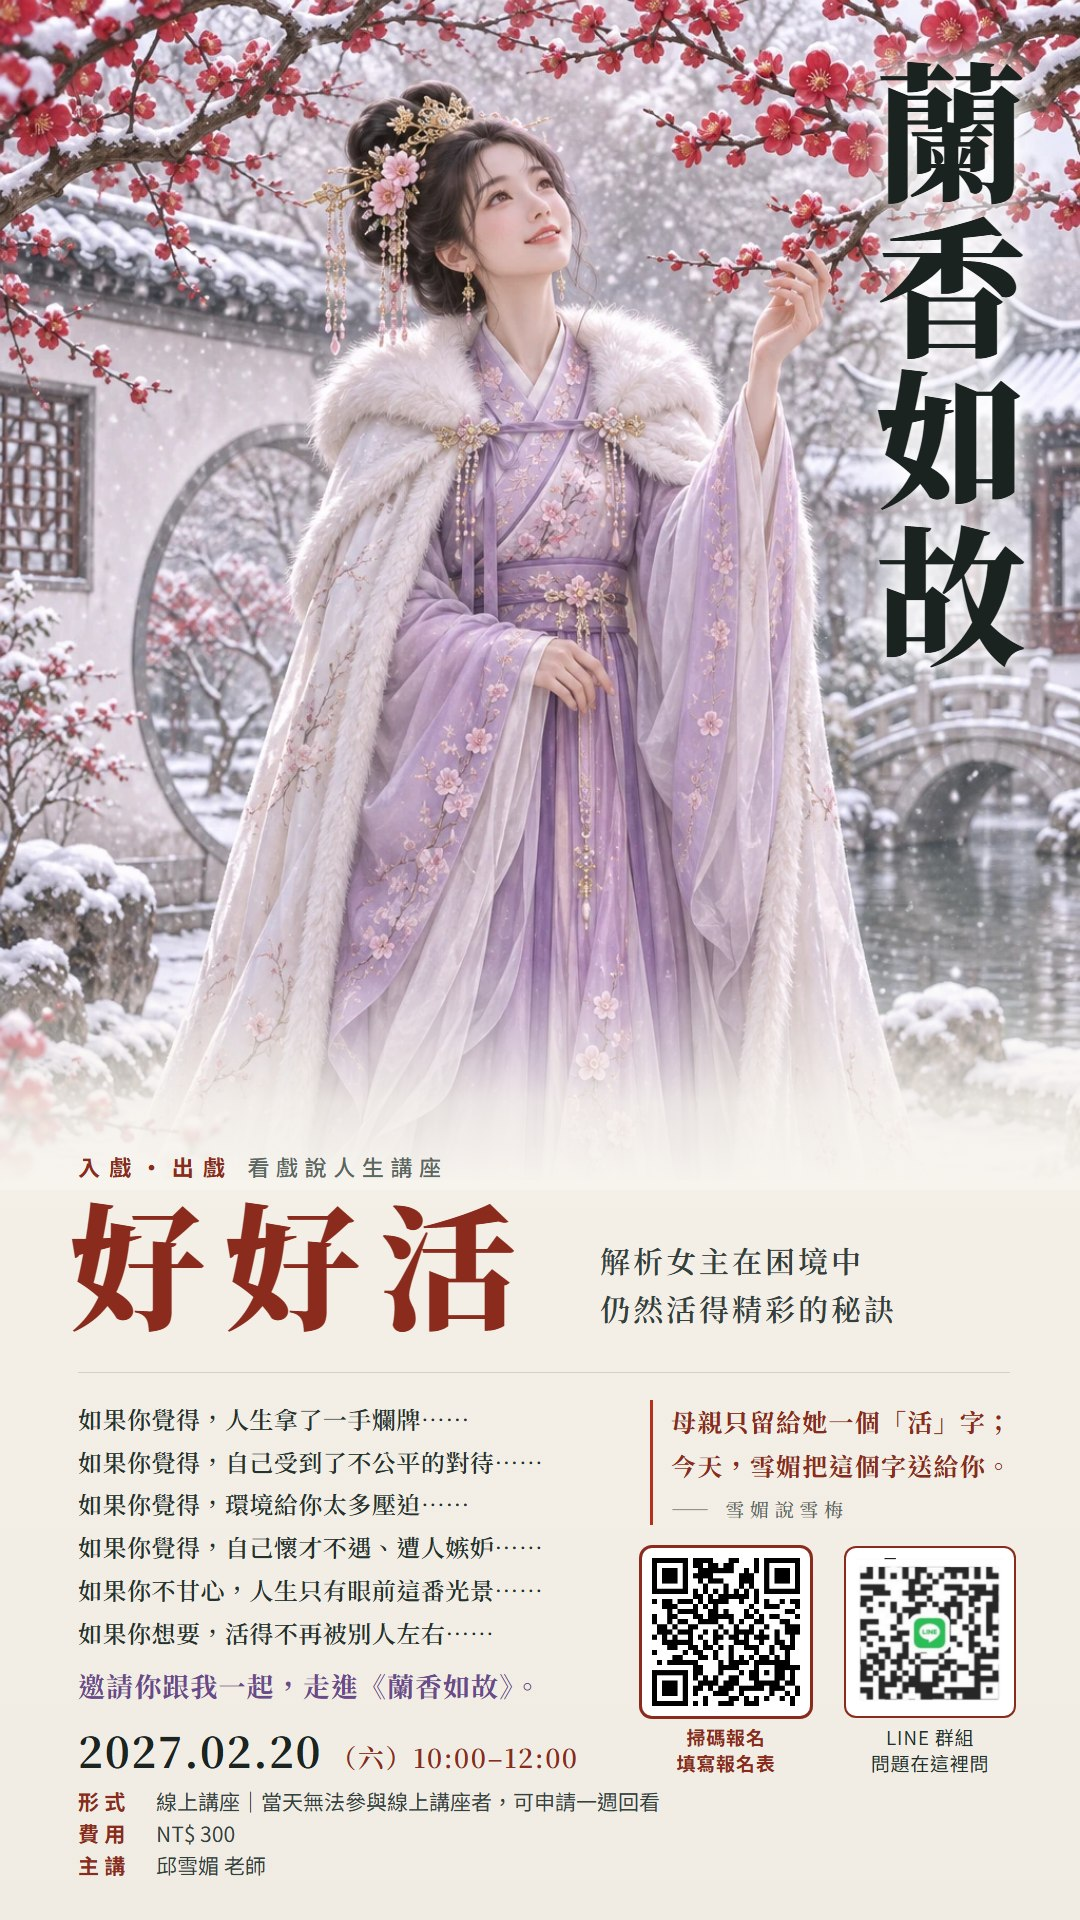
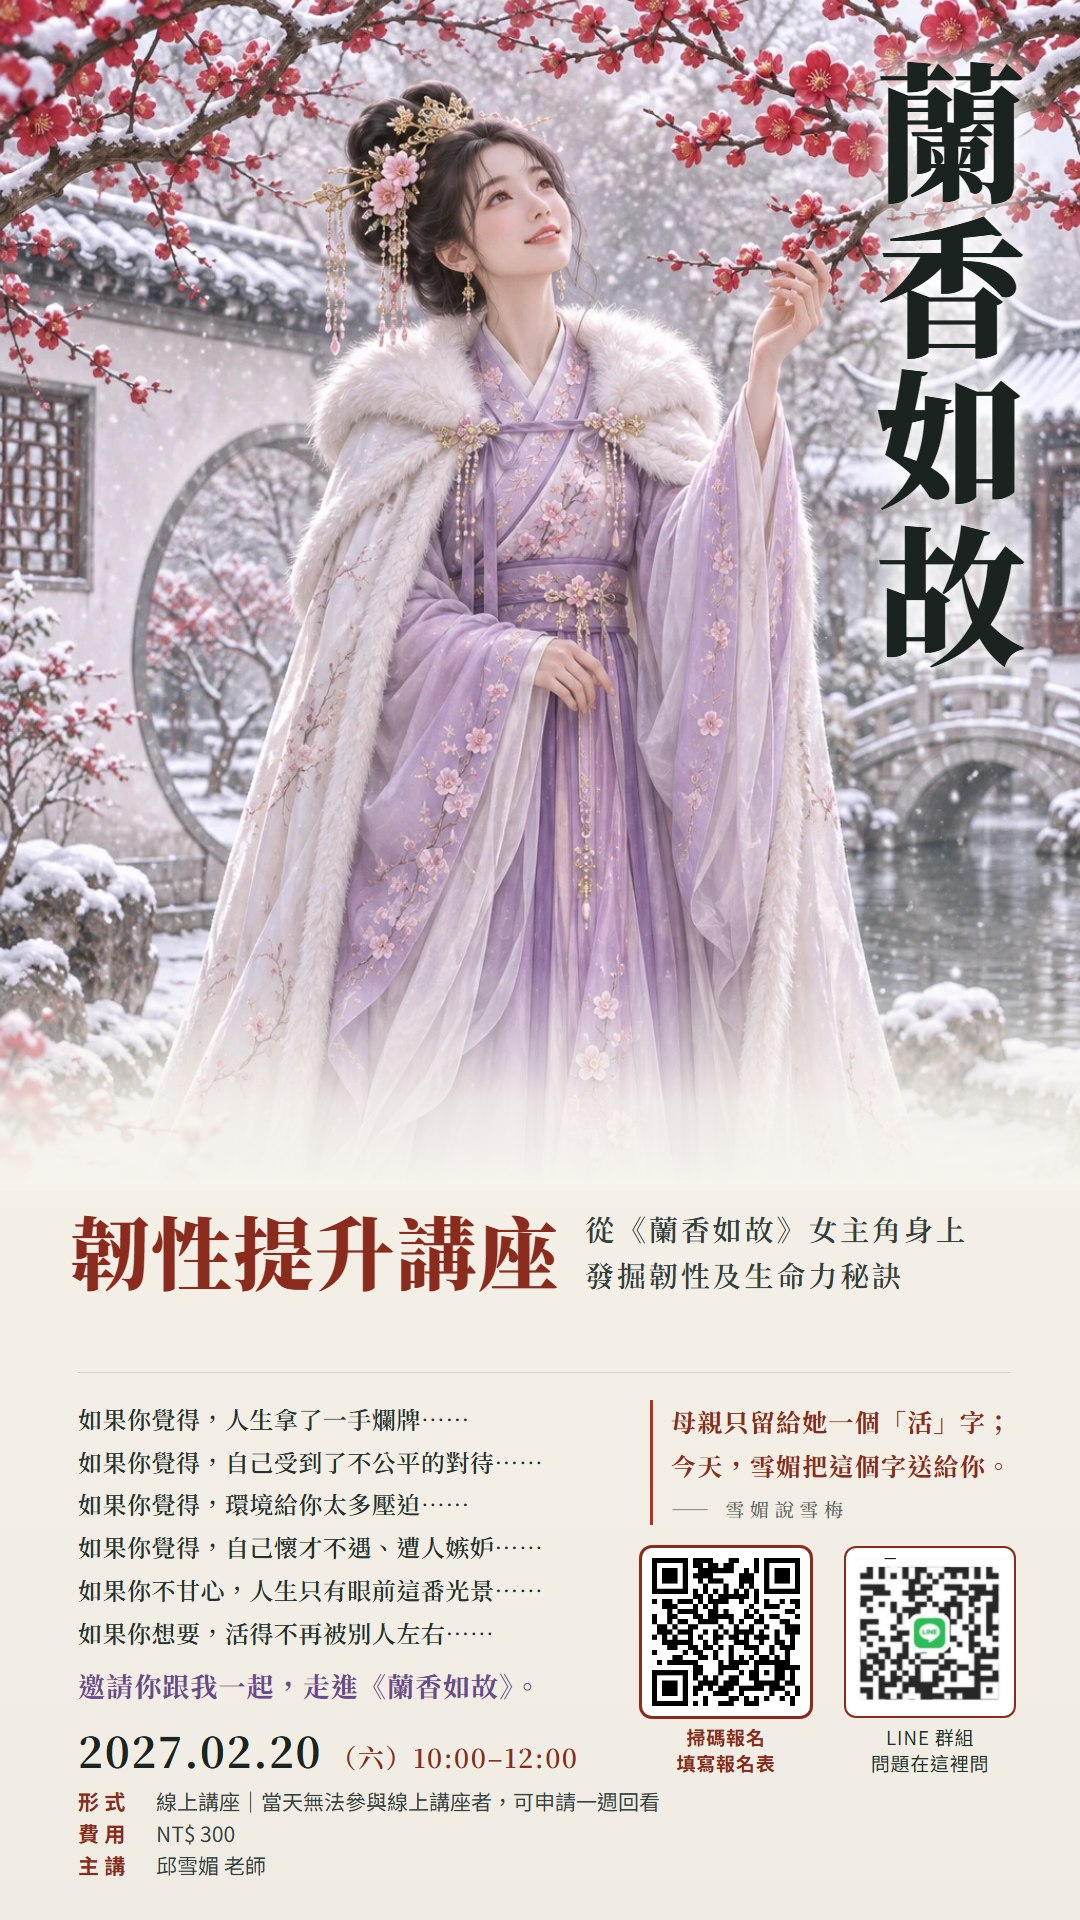
蘭香如故講座改名為韌性提升講座：新標題副標、移除延期通知、更新內容與海報

Changed region(s): [[0.0611, 0.5938, 0.5194, 0.7188], [0.55, 0.625, 0.8861, 0.6875]]

diff --git a/haohaohuo.html b/haohaohuo.html
@@ -3,23 +3,22 @@
 <head>
     <meta charset="UTF-8">
     <meta name="viewport" content="width=device-width, initial-scale=1.0">
-    <title>《蘭香如故》好好活｜入戲・出戲 看戲說人生系列講座 - 心路新路全齡健康幸福會所</title>
-    <meta name="description" content="【延期通知】改為 2027 年 2 月 20 日（六）上午 10:00–12:00 線上講座。邱雪媚老師用《蘭香如故》說戲，解析女主在困境中仍然活得精彩的秘訣，結合身心健康與信仰，陪你找到好好活的力量。費用 NT$300，當天無法參與者可申請一週回看。">
+    <title>韌性提升講座｜從《蘭香如故》女主角身上發掘韌性及生命力秘訣 - 心路新路全齡幸福園地</title>
+    <meta name="description" content="2027 年 2 月 20 日（六）上午 10:00–12:00 線上講座。邱雪媚老師從《蘭香如故》女主角身上發掘韌性及生命力秘訣，結合身心健康與信仰，陪你找到好好活的力量。費用 NT$300，當天無法參與者可申請一週回看。">
     <link rel="canonical" href="https://xinlu-may.github.io/haohaohuo.html">
-    <meta property="og:title" content="《蘭香如故》好好活｜入戲・出戲 看戲說人生系列講座">
-    <meta property="og:description" content="延期至 2027/2/20（六）上午 10:00–12:00 線上講座，解析女主在困境中仍然活得精彩的秘訣。">
+    <meta property="og:title" content="韌性提升講座｜從《蘭香如故》女主角身上發掘韌性及生命力秘訣">
+    <meta property="og:description" content="2027/2/20（六）上午 10:00–12:00 線上講座，從《蘭香如故》女主角身上發掘韌性及生命力秘訣。">
     <meta property="og:image" content="https://xinlu-may.github.io/images/haohaohuo-poster.jpg">
     <!-- 給搜尋引擎看的活動資料：讓搜尋結果顯示日期、線上形式與報名連結 -->
     <script type="application/ld+json">
     {
       "@context": "https://schema.org",
       "@type": "Event",
-      "name": "《蘭香如故》好好活｜入戲・出戲 看戲說人生系列講座",
-      "description": "邱雪媚老師用《蘭香如故》說戲，解析女主在困境中仍然活得精彩的秘訣，結合身心健康與信仰的眼光，陪你找到好好活的力量。當天無法參與者可申請一週回看。",
+      "name": "韌性提升講座｜從《蘭香如故》女主角身上發掘韌性及生命力秘訣",
+      "description": "邱雪媚老師從《蘭香如故》女主角身上發掘韌性及生命力秘訣，結合身心健康與信仰的眼光，陪你找到好好活的力量。當天無法參與者可申請一週回看。",
       "startDate": "2027-02-20T10:00:00+08:00",
       "endDate": "2027-02-20T12:00:00+08:00",
-      "previousStartDate": "2026-11-21T10:00:00+08:00",
-      "eventStatus": "https://schema.org/EventRescheduled",
+      "eventStatus": "https://schema.org/EventScheduled",
       "eventAttendanceMode": "https://schema.org/OnlineEventAttendanceMode",
       "location": { "@type": "VirtualLocation", "url": "https://xinlu-may.github.io/haohaohuo.html" },
       "image": ["https://xinlu-may.github.io/images/haohaohuo-poster.jpg"],
@@ -75,24 +74,16 @@
     <!-- 頂部導覽列 -->
     <nav class="main-nav">
         <div class="nav-container">
-            <a href="index.html" class="logo">心路新路全齡會所</a>
+            <a href="index.html" class="logo">心路新路全齡幸福園地</a>
             <a href="events.html" class="back-home">← 最新活動</a>
         </div>
     </nav>
 
     <div class="container">
 
-        <div class="urgent" role="alert" style="background:#FFF4E5;border:2px solid #E65100;border-radius:14px;padding:20px 24px;margin-bottom:32px;">
-            <div style="font-size:22px;font-weight:800;color:#C62828;margin-bottom:8px;">📢 緊急通知：講座延期</div>
-            <p style="font-size:18px;color:#444;margin-bottom:8px;">目前台灣只有 Disney+ 可以收看《蘭香如故》，有學員需要等到 Netflix 上架，才能完整看完全劇。為了讓大家都能先看完再一起聊，講座<b>延期到農曆年後</b>：</p>
-            <p style="font-size:21px;font-weight:bold;color:#1B5E20;margin-bottom:8px;">新日期：2027 年 2 月 20 日（六）上午 10:00–12:00（線上）</p>
-            <p style="font-size:16px;color:#666;">原訂 2026 年 11 月 21 日的場次取消。已報名繳費的學員，報名資格自動保留到新日期，不用重新報名；如果新日期無法參加，可以申請一週回看，或依<a href="refund.html" style="color:#2C5E3B;">退費說明</a>辦理。造成不便，敬請見諒。</p>
-        </div>
-
         <header class="page-header">
-            <div class="series">入戲・出戲　看戲說人生系列講座</div>
-            <h1 class="page-title">《蘭香如故》好好活</h1>
-            <p class="page-desc">解析女主在困境中仍然活得精彩的秘訣</p>
+            <h1 class="page-title">韌性提升講座</h1>
+            <p class="page-desc">從《蘭香如故》女主角身上發掘韌性及生命力秘訣</p>
         </header>
 
         <div class="cta">
@@ -102,7 +93,7 @@
 
         <div class="layout">
             <div class="poster">
-                <img src="images/haohaohuo-poster.jpg" alt="《蘭香如故》好好活講座海報">
+                <img src="images/haohaohuo-poster.jpg" alt="韌性提升講座海報">
             </div>
 
             <div class="detail">
@@ -121,24 +112,26 @@
                 <div class="card">
                     <h2>講座資訊</h2>
                     <dl class="info">
-                        <dt>時間</dt><dd><b style="color:#c62828;">2027 年 2 月 20 日（六）上午 10:00–12:00</b><br><span class="note"><s>原訂 2026 年 11 月 21 日</s>，已延期</span></dd>
+                        <dt>時間</dt><dd>2027 年 2 月 20 日（六）上午 10:00–12:00</dd>
                         <dt>形式</dt><dd>線上講座；當天無法參與線上講座者，可申請一週回看</dd>
                         <dt>費用</dt><dd>NT$300</dd>
                         <dt>主講</dt><dd>邱雪媚 老師</dd>
-                        <dt>行前準備</dt><dd>聽講座之前，建議先看完整部《蘭香如故》（目前台灣可在 Disney+ 收看；Netflix 上架後也可收看）</dd>
+                        <dt>行前準備</dt><dd>聽講座之前，建議先看完整部《蘭香如故》。如不知如何收看《蘭香如故》，請到 <a href="https://line.me/R/ti/p/@431trrjk" target="_blank" rel="noopener" style="color:#06A44B;font-weight:bold;white-space:nowrap;">LINE 小幫手</a>詢問</dd>
                     </dl>
                 </div>
 
                 <div class="card">
-                    <h2>這兩個小時，我們會談</h2>
-                    <p style="font-size:18px; color:#555; margin-bottom:10px;">一個母親臨終前，只留給女兒一個「活」字。今天，雪媚把這個字送給你。用劇中故事說戲，結合身心健康與信仰的眼光，陪你找到好好活的力量。</p>
+                    <h2>這兩個小時裡，我們會談以下內容</h2>
+                    <p style="font-size:18px; color:#555; margin-bottom:10px;">面對艱難的處境，多數人會有兩極化的反應：一個是壓抑忍耐，一個是崩潰爆炸。</p>
+                    <p style="font-size:18px; color:#555; margin-bottom:10px;">《蘭香如故》劇中的女主角沒有出現這兩種極端。為了已故母親以及慈愛養母勉勵她「好好活」，她展現了超強韌性，並運用許多策略，以至於不但活了下來，活得開心，而且活得發光發亮。</p>
+                    <p style="font-size:18px; color:#555; margin-bottom:10px;">讓我們藉著這部美麗、優質的戲劇作品，陪你找到好好活的力量。</p>
                     <ul class="points">
                         <li>一手爛牌，第一步是先活下來</li>
                         <li>拿回自己的名字，別人的標籤不是你</li>
                         <li>同樣的痛苦，為什麼有人走進死胡同，有人走出一條路</li>
                         <li>不吵架、不硬碰，也能改變局面</li>
                         <li>從小累積的本事，會在最難的時候救你</li>
-                        <li>你要知道你是誰</li>
+                        <li>讓活得好的渴望高於一切</li>
                     </ul>
                 </div>
 
@@ -153,7 +146,7 @@
                         國泰世華銀行（代碼 013）<br>
                         帳號：132-50-013341-8<br>
                         戶名：邱雪媚<br>
-                        <span class="note">匯款時請註明姓名及「好好活講座」</span>
+                        <span class="note">匯款時請註明姓名以及「韌性提升講座20270220」</span>
                     </div>
                 </div>
             </div>

diff --git a/index.html b/index.html
@@ -343,9 +343,9 @@
                 </a>
                 <a href="haohaohuo.html" class="news-hot-course" style="background:#8a2b1d; box-shadow:0 4px 12px rgba(138,43,29,0.25);">
                     <span class="news-hot-tag">🌸 最新講座・報名中</span>
-                    <span class="news-hot-title">《蘭香如故》好好活</span>
-                    <span class="news-hot-sub">入戲・出戲 看戲說人生系列講座</span>
-                    <span class="news-hot-sub">📢 延期至 2027/2/20（六）10:00–12:00 線上・NT$300</span>
+                    <span class="news-hot-title">韌性提升講座</span>
+                    <span class="news-hot-sub">從《蘭香如故》女主角身上發掘韌性及生命力秘訣</span>
+                    <span class="news-hot-sub">2027/2/20（六）10:00–12:00 線上・NT$300</span>
                     <span class="news-hot-go">👉 看講座介紹與報名</span>
                 </a>
                 <a href="brain-parents.html" class="news-hot-course" style="background:#3b2f8f; box-shadow:0 4px 12px rgba(59,47,143,0.25); grid-column:1 / -1;">
@@ -451,6 +451,10 @@
                 <button class="service-tab-btn" data-tab="assess" onclick="openServicePane('assess')">
                     <span class="service-tab-icon">🧭</span>
                     <span class="service-tab-label">全齡關懷十大<br>向度自我檢視</span>
+                </button>
+                <button class="service-tab-btn" data-tab="resilience" onclick="openServicePane('resilience')">
+                    <span class="service-tab-icon">🌈</span>
+                    <span class="service-tab-label">全齡幸福韌性<br>提升教育課程</span>
                 </button>
                 <button class="service-tab-btn" data-tab="camp" onclick="openServicePane('camp')">
                     <span class="service-tab-icon">🌱</span>
@@ -595,6 +599,37 @@
                                 <a href="https://line.me/R/ti/p/@431trrjk" target="_blank" class="action-link-btn btn-line-theme" style="width:100%; box-sizing:border-box; display:block; text-align:center;">💬 加官方 LINE</a>
                             </div>
                         </div>
+                    </div>
+                </div>
+            </div>
+            </div>
+            <div class="service-tab-pane" id="pane-resilience">
+            <div class="service-card">
+                <div class="card-header-toggle" onclick="toggleCard(this)">
+                    <h3>🌈 全齡幸福韌性提升教育課程</h3>
+                    <span class="toggle-icon">▼</span>
+                </div>
+                <div class="card-content-pane">
+                    <div class="pane-inner">
+                        <p style="font-size:21px; line-height:1.9; color:#262626; margin-bottom:14px;">人生不如意事十之八九。若期待一生順利平安，面對生命中不可避免的意外，以及成長路上的種種挑戰，將難以承受。</p>
+                        <p style="font-size:21px; line-height:1.9; color:#262626; margin-bottom:14px;">人生就像一場闖關遊戲，一關一關地過。最重要的是發揮韌性，一次又一次提升自己的應變能力。</p>
+                        <p style="font-size:21px; line-height:1.9; color:#262626; margin-bottom:22px;">韌性，是支持我們不斷前行的重要養分。「韌性提升系列課程」將陪伴大家學習善用資源，讓自己像 AI 一樣不斷迭代更新；同時學會辨識，在眾多資源中，哪些是安全且有建設性的。</p>
+
+                        <div class="sub-item-box" style="cursor:default;">
+                            <div class="sub-item-title" style="text-decoration:none;">👨👩👧 親職韌性提升系列</div>
+                            <div class="sub-item-desc">① 兒童期親職課程：教養兒童期孩子的父母<br>② 青春期親職課程：教養青春期孩子的父母<br>③ 成年子女親職課程：成年子女的父母</div>
+                        </div>
+                        <div class="sub-item-box" style="cursor:default;">
+                            <div class="sub-item-title" style="text-decoration:none;">💞 愛情韌性提升系列</div>
+                            <div class="sub-item-desc">④ 找不到對象<br>⑤ 關係經營</div>
+                        </div>
+                        <div class="sub-item-box" style="cursor:default;">
+                            <div class="sub-item-title" style="text-decoration:none;">🏅 成就與自我價值韌性提升系列</div>
+                            <div class="sub-item-desc">⑥ 學生課程：對自己成績不滿意的學生<br>⑦ 成人課程：對自己成就不滿意的大人</div>
+                        </div>
+
+                        <p style="font-size:24px; font-weight:bold; color:#E07B17; text-align:center; margin:26px 0 10px;">🌻 規劃中，敬請期待 🌻</p>
+                        <p style="font-size:16px; color:#777; text-align:center; line-height:1.7;">本課程為教育與生命成長陪伴，不是心理諮商或心理治療，也不做疾病診斷。</p>
                     </div>
                 </div>
             </div>
@@ -1860,6 +1895,7 @@
         // 服務項目：標題與每項目的按鈕設定
         const SERVICE_TITLES = {
             assess: '🧭 全齡關懷十大向度生活自我檢視',
+            resilience: '🌈 全齡幸福韌性提升教育課程',
             camp: '🌱 兒童青少年課程及營隊',
             adult: '💎 個人成長課程',
             elder: '👵 樂齡成長課程',
@@ -1873,6 +1909,7 @@
 
         const SERVICE_CONFIG = {
             assess:    { registerLabel:'📝 填寫報名表單', registerFn: () => openBookingModal('全齡關懷十大向度生活自我檢視'), groupLabel:'💬 加官方LINE好友', groupUrl:'https://line.me/R/ti/p/@431trrjk' },
+            resilience:{ registerLabel:'📝 填寫報名表單', registerFn: () => {}, groupLabel:'💬 加官方LINE好友', groupUrl:'https://line.me/R/ti/p/@431trrjk' },
             camp:      { registerLabel:'📝 填寫報名表單', registerFn: () => openBookingModal('兒童青少年課程及營隊'), groupLabel:'💬 加官方LINE好友', groupUrl:'https://line.me/R/ti/p/@431trrjk' },
             adult:     { registerLabel:'📝 填寫報名表單', registerFn: () => openBookingModal('個人成長課程'), groupLabel:'💬 加官方LINE好友', groupUrl:'https://line.me/R/ti/p/@431trrjk' },
             elder:     { registerLabel:'📝 填寫報名表單', registerFn: () => openBookingModal('樂齡成長課程'), groupLabel:'💬 加官方LINE好友', groupUrl:'https://line.me/R/ti/p/@431trrjk' },
@@ -1904,7 +1941,7 @@
             // assess（自我檢視）與 camp（兒少課程及營隊）內文已自帶報名／加LINE按鈕，
             // 底部共用按鈕在這兩個服務項目會重複，故隱藏，只保留「回到服務項目」「上一頁」
             const hideDuplicateBtns = (key === 'assess' || key === 'camp');
-            registerBtn.style.display = hideDuplicateBtns ? 'none' : '';
+            registerBtn.style.display = (hideDuplicateBtns || key === 'resilience') ? 'none' : '';
             groupBtn.style.display = hideDuplicateBtns ? 'none' : '';
 
             // 兒童青少年課程及營隊頁內文已有自己的返回與功能按鈕，底部整列隱藏避免重複

diff --git a/events.html b/events.html
@@ -79,12 +79,12 @@
             <tr class="event-card">
                 <td class="event-padding" style="border-left: 6px solid #8a2b1d;">
                     <span class="event-status status-open">🔥 報名中</span>
-                    <h2 class="event-title">🌸 入戲・出戲 看戲說人生系列講座：《蘭香如故》好好活</h2>
+                    <h2 class="event-title">🌸 韌性提升講座｜從《蘭香如故》女主角身上發掘韌性及生命力秘訣</h2>
                     <div class="event-meta">
-                        📢 <b style="color:#c62828;">延期通知：</b>改為 <b>2027 年 2 月 20 日（六）上午 10:00–12:00</b>（原訂 11/21） / 📍 <b>形式：</b>線上（當天無法參與者可申請一週回看）/ 💰 <b>費用：</b>NT$300
+                        📅 <b>講座時間：</b>2027 年 2 月 20 日（六）上午 10:00–12:00 / 📍 <b>形式：</b>線上（當天無法參與者可申請一週回看）/ 💰 <b>費用：</b>NT$300
                     </div>
                     <p class="event-text">
-                        一個母親臨終前，只留給女兒一個「活」字。雪媚老師用《蘭香如故》說戲，解析女主在困境中仍然活得精彩的秘訣，結合身心健康與信仰的眼光，陪你找到好好活的力量。建議先看完整部劇（目前台灣可在 Disney+ 收看，Netflix 上架後也可收看）。
+                        一個母親臨終前，只留給女兒一個「活」字。雪媚老師從《蘭香如故》女主角身上發掘韌性及生命力秘訣，結合身心健康與信仰的眼光，陪你找到好好活的力量。建議先看完整部劇；如不知如何收看《蘭香如故》，請到 LINE 小幫手詢問。
                     </p>
                     <a href="haohaohuo.html" class="event-btn btn-green" style="background: #8a2b1d;">查看講座內容與報名 →</a>
                 </td>

diff --git a/column-haohaohuo.html b/column-haohaohuo.html
@@ -79,8 +79,8 @@
         <p>聖經裡耶穌說：「我來了，是要叫羊得生命，並且得的更豐盛。」（約翰福音 10:10）好好活，從來不只是撐下去，而是活出更豐盛的生命。</p>
 
         <div class="invite">
-            <img src="images/haohaohuo-poster.jpg" alt="《蘭香如故》好好活講座海報">
-            <p><b>📢 延期至 2027/2/20（六）上午 10:00–12:00 線上講座</b><br>「入戲・出戲」看戲說人生系列講座《蘭香如故》好好活<br>NT$300｜當天無法參與者可申請一週回看</p>
+            <img src="images/haohaohuo-poster.jpg" alt="韌性提升講座海報">
+            <p><b>2027/2/20（六）上午 10:00–12:00 線上講座</b><br>韌性提升講座｜從《蘭香如故》女主角身上發掘韌性及生命力秘訣<br>NT$300｜當天無法參與者可申請一週回看</p>
             <a class="btn" href="haohaohuo.html">看講座介紹與報名 →</a>
             <a class="btn line" href="https://line.me/R/ti/p/@431trrjk" target="_blank" rel="noopener">LINE 詢問</a>
         </div>
